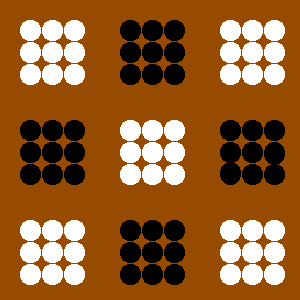
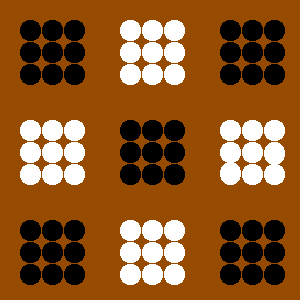
Update limiarização.py

diff --git a/Aplicações/LImiarização de Imagens/limiarização.py b/Aplicações/LImiarização de Imagens/limiarização.py
@@ -20,9 +20,9 @@ def gerarImagem(matriz):
     cor = 'cor'
     for linha in matriz:
         for numero in linha:
-            if numero == 0:
-                cor = 'black'
-                #Preto
+            if numero == 15:
+                cor = 'white'
+                #Branco
                 #Primeiro Quadrante
                 draw.ellipse([(120, 20), (140, 40)], fill=cor, outline=cor, width=1)
                 draw.ellipse([(120, 42), (140, 62)], fill=cor, outline=cor, width=1)
@@ -63,9 +63,9 @@ def gerarImagem(matriz):
                 draw.ellipse([(164, 220), (184, 240)], fill=cor, outline=cor, width=1)
                 draw.ellipse([(164, 242), (184, 262)], fill=cor, outline=cor, width=1)
                 draw.ellipse([(164, 264), (184, 284)], fill=cor, outline=cor, width=1)
-            elif numero == 15:
-                cor = 'white'
-                #Branco
+            elif numero == 0:
+                cor = 'black'
+                #Preto
                 #Primeiro Quadrante
                 draw.ellipse([(20, 20), (40, 40)], fill=cor, outline=cor, width=1)
                 draw.ellipse([(20, 42), (40, 62)], fill=cor, outline=cor, width=1)
@@ -123,7 +123,7 @@ def limiarização (matriz):
     limiar = 7
     for i, linha in enumerate(matriz):
         for j, numero in enumerate(linha):
-            if numero < 7:
+            if numero > 7:
                 numero = 15
             else:
                 numero = 0
